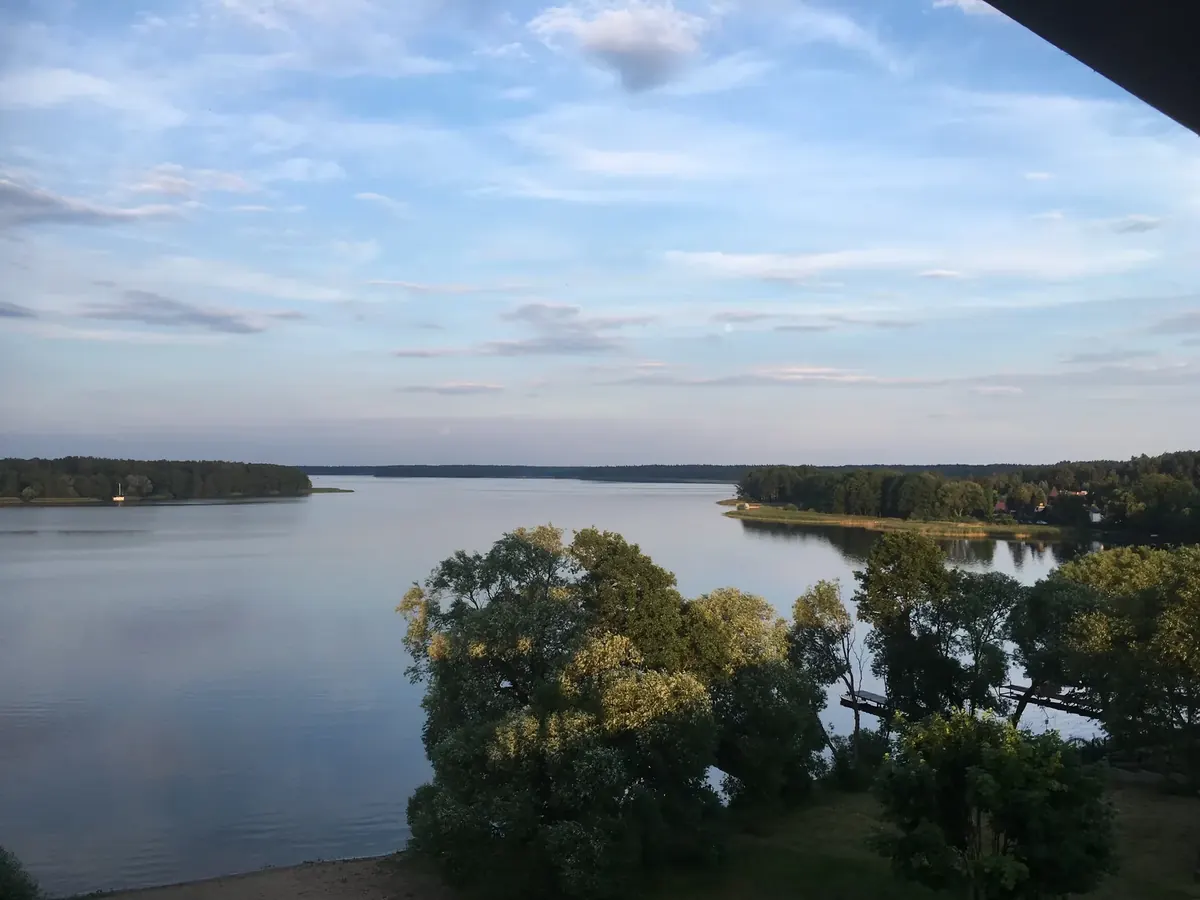
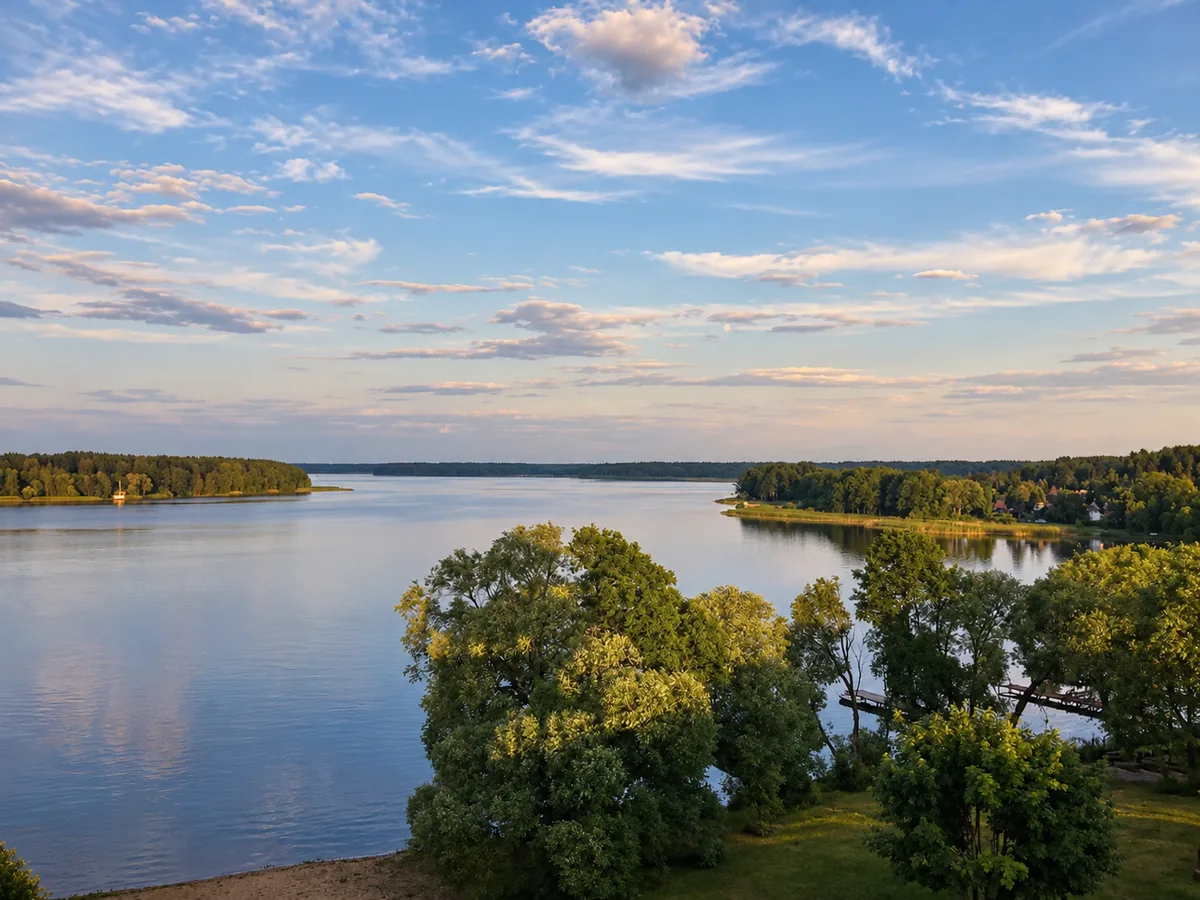
Optimize new photos (#63)
* add-photos

* Optimize and integrate new site photos

diff --git a/pan-samochodzik.html b/pan-samochodzik.html
@@ -26,7 +26,7 @@
 <a class="nav-simple" href="domek.html">Domek</a>
 <a class="book" href="https://www.booking.com/hotel/pl/domek-letniskowy-siemiany.pl.html" rel="noopener" target="_blank">Sprawdź termin</a>
 </div></div></nav><header class="page-hero"><div class="wrap page-hero-grid"><div><div class="breadcrumb"><a href="index.html">Strona główna</a> / Pan Samochodzik</div><p class="eyebrow">Śladami Nienackiego</p><h1>Pan Samochodzik.<br/><em>Tu krajobraz wszedł do książek.</em></h1><p>Jerzwałd i północny Jeziorak nie są tylko miejscem, w którym mieszkał autor. Woda, promy, leśne drogi, stare budynki i lokalne historie przenikały do jego prozy.</p></div><figure class="page-hero-figure"><img alt="Dom Zbigniewa Nienackiego w Jerzwałdzie" fetchpriority="high" src="assets/img/dom-nienackiego-nienacki-art.jpg"/><figcaption>Dom Zbigniewa Nienackiego w Jerzwałdzie. Zdjęcie pochodzi z nieistniejącej już strony nienacki.art.pl.</figcaption></figure></div></header><main id="main"><section class="section paper"><div class="wrap article-layout"><aside aria-label="Na tej stronie" class="article-nav"><a href="#jerzwald">Nienacki w Jerzwałdzie</a><a href="#film">Film i rozmowy</a><a href="#jeziorak">Jeziorak w książkach</a><a href="#poletko">Jak poznawał ten świat</a><a href="#matyty">Matyty i prom</a><a href="#mlyn">Młyn</a><a href="#skirolawki">Skiroławki</a><a href="#slady">Co zobaczyć</a></aside><article class="article">
-<section id="jerzwald"><h2>27 lat w Jerzwałdzie</h2><div class="nienacki-bio"><div class="nienacki-bio-copy"><p class="intro">Zbigniew Nienacki kupił dom w Jerzwałdzie w maju 1967 roku i zamieszkał tu na stałe. Zmarł w 1994 roku; jego grób znajduje się na miejscowym cmentarzu, a na domu pozostała tablica pamiątkowa.</p><p>To właśnie dlatego najlepiej patrzeć na tę część Pojezierza jak na krajobraz pisarza: nie muzeum pod dachem, tylko jezioro, las, wieś i miejsca, po których poruszał się na co dzień.</p></div><figure class="person-portrait nienacki-portrait"><img alt="Zbigniew Nienacki w 1975 roku" decoding="async" loading="lazy" src="assets/img/zbigniew-nienacki-1975.jpg"/><figcaption>Zbigniew Nienacki, 1975. Muzeum Warmii i Mazur w Olsztynie, domena publiczna. <a href="https://commons.wikimedia.org/wiki/File:Zbigniew_Nienacki_1975.jpg" rel="noopener" target="_blank">Wikimedia Commons ↗</a></figcaption></figure></div></section>
+<section id="jerzwald"><h2>27 lat w Jerzwałdzie</h2><div class="nienacki-bio"><div class="nienacki-bio-copy"><p class="intro">Zbigniew Nienacki kupił dom w Jerzwałdzie w maju 1967 roku i zamieszkał tu na stałe. Zmarł w 1994 roku; jego grób znajduje się na miejscowym cmentarzu, a na domu pozostała tablica pamiątkowa.</p><p>To właśnie dlatego najlepiej patrzeć na tę część Pojezierza jak na krajobraz pisarza: nie muzeum pod dachem, tylko jezioro, las, wieś i miejsca, po których poruszał się na co dzień.</p></div><figure class="person-portrait nienacki-portrait"><img alt="Zbigniew Nienacki w 1975 roku" decoding="async" height="1466" loading="lazy" sizes="(max-width: 640px) 130px, 150px" src="assets/img/zbigniew-nienacki-1975.webp" srcset="assets/img/r/zbigniew-nienacki-1975-480.webp 480w, assets/img/r/zbigniew-nienacki-1975-800.webp 800w, assets/img/zbigniew-nienacki-1975.webp 1073w" width="1073"/><figcaption>Zbigniew Nienacki, 1975. Muzeum Warmii i Mazur w Olsztynie, domena publiczna. <a href="https://commons.wikimedia.org/wiki/File:Zbigniew_Nienacki_1975.jpg" rel="noopener" target="_blank">Wikimedia Commons ↗</a></figcaption></figure></div></section>
 <section id="film"><h2>Nienacki, Jerzwałd i Jeziorak na filmie</h2><p class="intro">Jeśli chcesz najpierw zobaczyć miejsca, o których jest ta strona, zacznij od tego filmu. To najlepsze filmowe uzupełnienie naszej opowieści o Nienackim, Jerzwałdzie i Jezioraku.</p><div class="archive-video"><iframe allow="accelerometer; autoplay; clipboard-write; encrypted-media; gyroscope; picture-in-picture; web-share" allowfullscreen loading="lazy" src="https://www.youtube-nocookie.com/embed/KG4WDNZ17Lw" title="Zbigniew Nienacki, Jerzwałd i Jeziorak"></iframe></div><p class="media-note"><a href="https://www.youtube.com/watch?v=KG4WDNZ17Lw" rel="noopener" target="_blank">Otwórz film w YouTube ↗</a></p><h3>Posłuchaj też</h3><div class="archive-audio-grid"><a class="archive-audio-card" href="https://www.youtube.com/watch?v=VCBD6uXNoP4" rel="noopener" target="_blank"><strong>Wywiad ze Zbigniewem Nienackim - 1976</strong><span>Archiwalna rozmowa z samym pisarzem - przede wszystkim do słuchania.</span><span class="archive-media-link">Posłuchaj na YouTube ↗</span></a><a class="archive-audio-card" href="https://www.youtube.com/watch?v=FEP7ZCl9BRw" rel="noopener" target="_blank"><strong>Rozmowa z Alicją Janeczek</strong><span>Wspomnienia partnerki Nienackiego o nim, Jerzwałdzie, żeglarstwie i jego książkach.</span><span class="archive-media-link">Posłuchaj na YouTube ↗</span></a></div></section>
 <section id="jeziorak"><h2>Jeziorak nie był dekoracją</h2><p>Miłośnicze opracowania twórczości Nienackiego wskazują, że w <em>Nowych przygodach Pana Samochodzika</em> miejsce akcji da się rozpoznać bardzo konkretnie: pojawia się Jeziorak, Jerzwałd, a nawet aluzja do domu autora. Dla czytelnika oznacza to rzadką możliwość wejścia w realną geografię przygodowej książki.</p><p>Nie wszystkie lokalizacje dają się przypisać jeden do jednego. Nienacki mieszał rzeczywistość, lokalne historie i literacką fikcję - i właśnie to jest najciekawsze.</p></section>
 <section id="poletko"><h2>Najpierw sam chciał wiedzieć, jak to działa</h2><p class="intro">Reportaż Haliny Kurowskiej „Poletko Pana Samochodzika” z 1977 r. pokazuje Nienackiego w Jerzwałdzie jeszcze przed głośnymi <em>Skiroławkami</em> i dobrze tłumaczy, dlaczego jeziorny świat jego książek bywa tak konkretny.</p><p>W reportażu pisarz opowiada, że kupił żaglówkę i zdobył patent sternika właśnie dlatego, że pisał o jeziorach i bohaterach poruszających się po wodzie. Chciał znać to z własnego doświadczenia, a nie tylko z wyobraźni. To drobny szczegół, ale dobrze pasuje do sposobu, w jaki realny Jeziorak przenika do przygód Pana Samochodzika.</p><p>Podobnie wspominają go dawni mieszkańcy Jerzwałdu: jeździł po okolicy, rozmawiał z ludźmi i zbierał lokalne historie. Później czytelnicy odnajdywali w książkach znajome wyspy, wsie, drogi i anegdoty. Nie oznacza to, że każdą scenę można przypiąć do jednego punktu na mapie - Nienacki mieszał dokument, wspomnienie i fikcję.</p><div class="route-actions"><a class="btn primary" href="https://jerzwald.pl/poletko-pana-samochodzika/" rel="noopener" target="_blank">„Poletko Pana Samochodzika” - Jerzwald.pl ↗</a><a class="btn ghost" href="https://jerzwald.pl/tworca-pana-samochodzika-byl-ich-sasiadem-jerzwald-to-skirolawki/" rel="noopener" target="_blank">Wspomnienia mieszkańców Jerzwałdu ↗</a></div></section>

diff --git a/5-dni.html b/5-dni.html
@@ -15,7 +15,7 @@
 <div class="nav-group"><button aria-expanded="false" class="nav-trigger">Natura i trasy <span>⌄</span></button><div class="mega-menu single"><div><p class="mega-label">Natura i trasy</p><a href="lasy-trasy.html">Lasy i spacery</a><a href="rowerem.html">Rowerem wokół Jezioraka</a><a href="solniki.html">Pętla Solniki</a><a href="rezerwaty.html">Rezerwaty i Natura 2000</a></div></div></div>
 <div class="nav-group"><button aria-expanded="false" class="nav-trigger">Okolica <span>⌄</span></button><div class="mega-menu cols-2 mega-wide"><div><p class="mega-label">Wycieczki</p><a href="jerzwald.html">Jerzwałd</a><a href="susz.html">Susz</a><a href="ilawa.html">Iława</a><a href="kanal-elblaski.html">Kanał Elbląski</a><a href="okolica.html">Okolica i dalsze wycieczki</a></div><div><p class="mega-label">Historie</p><a href="tajemnice.html">Tajemnice okolicy</a><a href="januszewo.html">Januszewo</a><a href="pan-samochodzik.html">Pan Samochodzik</a></div></div></div><a class="nav-simple" href="domek.html">Domek</a><a class="book" href="https://www.booking.com/hotel/pl/domek-letniskowy-siemiany.pl.html" rel="noopener" target="_blank">Sprawdź termin</a>
 </div></div></nav>
-<header class="page-hero"><div class="wrap page-hero-grid"><div><div class="breadcrumb"><a href="index.html">Strona główna</a> / 5 dni w Siemianach</div><p class="eyebrow">Plan pobytu</p><h1>5 dni w Siemianach.<br/><em>Bez gonitwy.</em></h1><p>To nie plan atrakcji do odhaczenia od rana do wieczora. Pięć dni wystarczy, żeby zobaczyć Jeziorak, wejść głębiej w las, poznać Jerzwałd i zostawić sobie czas na dzień, w którym po prostu niczego nie trzeba.</p></div><img alt="Spokojny wieczór nad Jeziorakiem" fetchpriority="high" height="900" sizes="(max-width: 900px) 100vw, 50vw" src="assets/img/siemiany-evening.webp" srcset="assets/img/r/siemiany-evening-800.webp 800w, assets/img/r/siemiany-evening-1200.webp 1200w, assets/img/siemiany-evening.webp 1200w" width="1200"/></div></header>
+<header class="page-hero"><div class="wrap page-hero-grid"><div><div class="breadcrumb"><a href="index.html">Strona główna</a> / 5 dni w Siemianach</div><p class="eyebrow">Plan pobytu</p><h1>5 dni w Siemianach.<br/><em>Bez gonitwy.</em></h1><p>To nie plan atrakcji do odhaczenia od rana do wieczora. Pięć dni wystarczy, żeby zobaczyć Jeziorak, wejść głębiej w las, poznać Jerzwałd i zostawić sobie czas na dzień, w którym po prostu niczego nie trzeba.</p></div><img alt="Spokojny wieczór nad Jeziorakiem" fetchpriority="high" height="1086" sizes="(max-width: 900px) 100vw, 50vw" src="assets/img/siemiany-evening.webp" srcset="assets/img/r/siemiany-evening-480.webp 480w, assets/img/r/siemiany-evening-800.webp 800w, assets/img/r/siemiany-evening-1200.webp 1200w, assets/img/siemiany-evening.webp 1448w" width="1448"/></div></header>
 <main id="main"><section class="section compact page-toc"><div class="wrap"><p class="kicker">Na tej stronie</p><nav aria-label="Na tej stronie" class="toc-chips"><a href="#dzien-1">Dzień 1</a><a href="#dzien-2">Dzień 2</a><a href="#dzien-3">Dzień 3</a><a href="#dzien-4">Dzień 4</a><a href="#dzien-5">Dzień 5</a><a href="#warianty">Deszcz / dzieci / rower</a></nav></div></section>
 <section class="section paper"><div class="wrap article-layout"><aside aria-label="Plan 5 dni" class="article-nav"><a href="#dzien-1">Siemiany</a><a href="#dzien-2">Las i jeziora</a><a href="#dzien-3">Jerzwałd</a><a href="#dzien-4">Jeziorak</a><a href="#dzien-5">Iława albo Susz</a><a href="#warianty">Warianty</a></aside><article class="article">
 <section><p class="kicker">Zanim zaczniesz</p><h2>Jedna zasada: nie próbuj zmieścić wszystkiego</h2><p class="intro">Najlepsze dni tutaj mają trochę pustego miejsca. Jeśli pogoda jest świetna, zostań dłużej nad wodą. Jeśli dzieci dobrze bawią się na plaży, nie przerywaj tylko dlatego, że „w planie” jest kolejny punkt.</p><p>Ten układ traktujemy jako pięć różnych pomysłów na dzień. Można je zamieniać kolejnością, skracać albo zupełnie odpuścić.</p></section>

diff --git a/siemiany.html b/siemiany.html
@@ -55,7 +55,7 @@
 </div>
 <div class="info-grid eatery-grid">
 <div class="info-card"><h3>Bar na Skarpie</h3><p>Kuchnia polsko-gruzińska i jeden z najbardziej charakterystycznych punktów Siemian. W sezonie odbywają się tu także potańcówki i wieczory z muzyką. Z tarasu rozciąga się szeroki widok na Jeziorak.</p><p><strong>tel. 89 640 44 81</strong></p><a class="more" href="https://www.facebook.com/skarpa.siemiany" rel="noopener" target="_blank">Facebook Baru na Skarpie ↗</a></div>
-<div class="info-card"><h3>Restauracja Szyszka</h3><p>Restauracja przy ośrodku wypoczynkowym. Kolejna opcja na obiad lub kolację w samej miejscowości.</p><p><strong>tel. 661 585 336</strong></p><a class="more" href="https://www.facebook.com/O%C5%9Brodek-wypoczynkowy-i-restauracja-Szyszka-1605461006154136/" rel="noopener" target="_blank">Szyszka na Facebooku ↗</a></div>
+<div class="info-card"><img alt="Dziedziniec Restauracji Szyszka w Siemianach" class="eatery-photo" decoding="async" height="940" loading="lazy" sizes="(max-width: 760px) 100vw, 50vw" src="assets/img/restauracja-szyszka.webp" srcset="assets/img/r/restauracja-szyszka-480.webp 480w, assets/img/r/restauracja-szyszka-800.webp 800w, assets/img/r/restauracja-szyszka-1200.webp 1200w, assets/img/restauracja-szyszka.webp 1673w" width="1673"/><h3>Restauracja Szyszka</h3><p>Restauracja przy ośrodku wypoczynkowym. Kolejna opcja na obiad lub kolację w samej miejscowości.</p><p><strong>tel. 661 585 336</strong></p><a class="more" href="https://www.facebook.com/O%C5%9Brodek-wypoczynkowy-i-restauracja-Szyszka-1605461006154136/" rel="noopener" target="_blank">Szyszka na Facebooku ↗</a></div>
 </div>
 <p class="notice">Lokale w Siemianach działają mocno sezonowo - przed przyjazdem warto sprawdzić bieżące godziny.</p>
 <div class="route-actions"><a class="btn ghost" href="https://it.miastoilawa.pl/gdzie-zjesc/okolice-ilawy" rel="noopener" target="_blank">Gastronomia w okolicy - Informacja Turystyczna ↗</a></div>

diff --git a/index.html b/index.html
@@ -41,7 +41,7 @@
 <p class="lead">Jednego dnia możesz zacząć od kąpieli, drugiego ruszyć rowerem do leśnych jezior, a trzeciego po prostu zostać na tarasie. Siemiany dają dużo możliwości, ale nie narzucają tempa.</p>
 </div></div>
 <div class="editorial-grid">
-<div class="photo-card big-photo"><img alt="Jeziorak o spokojnym wieczorze" decoding="async" height="900" loading="lazy" sizes="(max-width: 760px) 100vw, 50vw" src="assets/img/siemiany-evening.webp" srcset="assets/img/r/siemiany-evening-800.webp 800w, assets/img/r/siemiany-evening-1200.webp 1200w, assets/img/siemiany-evening.webp 1200w" width="1200"/><span class="caption">wieczór nad Jeziorakiem</span></div>
+<div class="photo-card big-photo"><img alt="Jeziorak o spokojnym wieczorze" decoding="async" height="1086" loading="lazy" sizes="(max-width: 760px) 100vw, 50vw" src="assets/img/siemiany-evening.webp" srcset="assets/img/r/siemiany-evening-480.webp 480w, assets/img/r/siemiany-evening-800.webp 800w, assets/img/r/siemiany-evening-1200.webp 1200w, assets/img/siemiany-evening.webp 1448w" width="1448"/><span class="caption">wieczór nad Jeziorakiem</span></div>
 <div class="photo-card small-photo"><img alt="Leśna droga jesienią w okolicy Siemian" decoding="async" height="1350" loading="lazy" sizes="(max-width: 760px) 100vw, 50vw" src="assets/img/forest-autumn.webp" srcset="assets/img/r/forest-autumn-800.webp 800w, assets/img/r/forest-autumn-1200.webp 1200w, assets/img/forest-autumn.webp 1800w" width="1800"/><span class="caption">leśne drogi</span></div>
 <div class="photo-card small-photo"><img alt="Pomost nad jeziorem Urowiec" decoding="async" height="1086" loading="lazy" sizes="(max-width: 760px) 100vw, 50vw" src="assets/img/urowiec.webp" srcset="assets/img/r/urowiec-480.webp 480w, assets/img/r/urowiec-800.webp 800w, assets/img/r/urowiec-1200.webp 1200w, assets/img/urowiec.webp 1448w" width="1448"/><span class="caption">śródleśny Urowiec</span></div>
 </div></div></section>

diff --git a/styles.css b/styles.css
@@ -291,7 +291,7 @@ button{font:inherit}
 @media(max-width:680px){.portrait-media{grid-template-columns:1fr}.portrait-media figure{max-width:none}.portrait-media img{max-height:560px}#rezerwaty .card-grid{grid-template-columns:1fr}}
 
 /* V10 */
-.eatery-grid .info-card .more{display:inline-block;margin-top:8px}
+.eatery-grid .info-card .more{display:inline-block;margin-top:8px}.eatery-grid .eatery-photo{display:block;width:100%;height:190px;object-fit:cover;border-radius:14px;margin:0 0 18px}
 .place-photo{margin:30px 0 34px}
 .place-photo img{width:100%;max-height:560px;object-fit:cover;border-radius:22px;box-shadow:var(--shadow)}
 .place-photo figcaption a{text-decoration:underline;text-underline-offset:2px}
